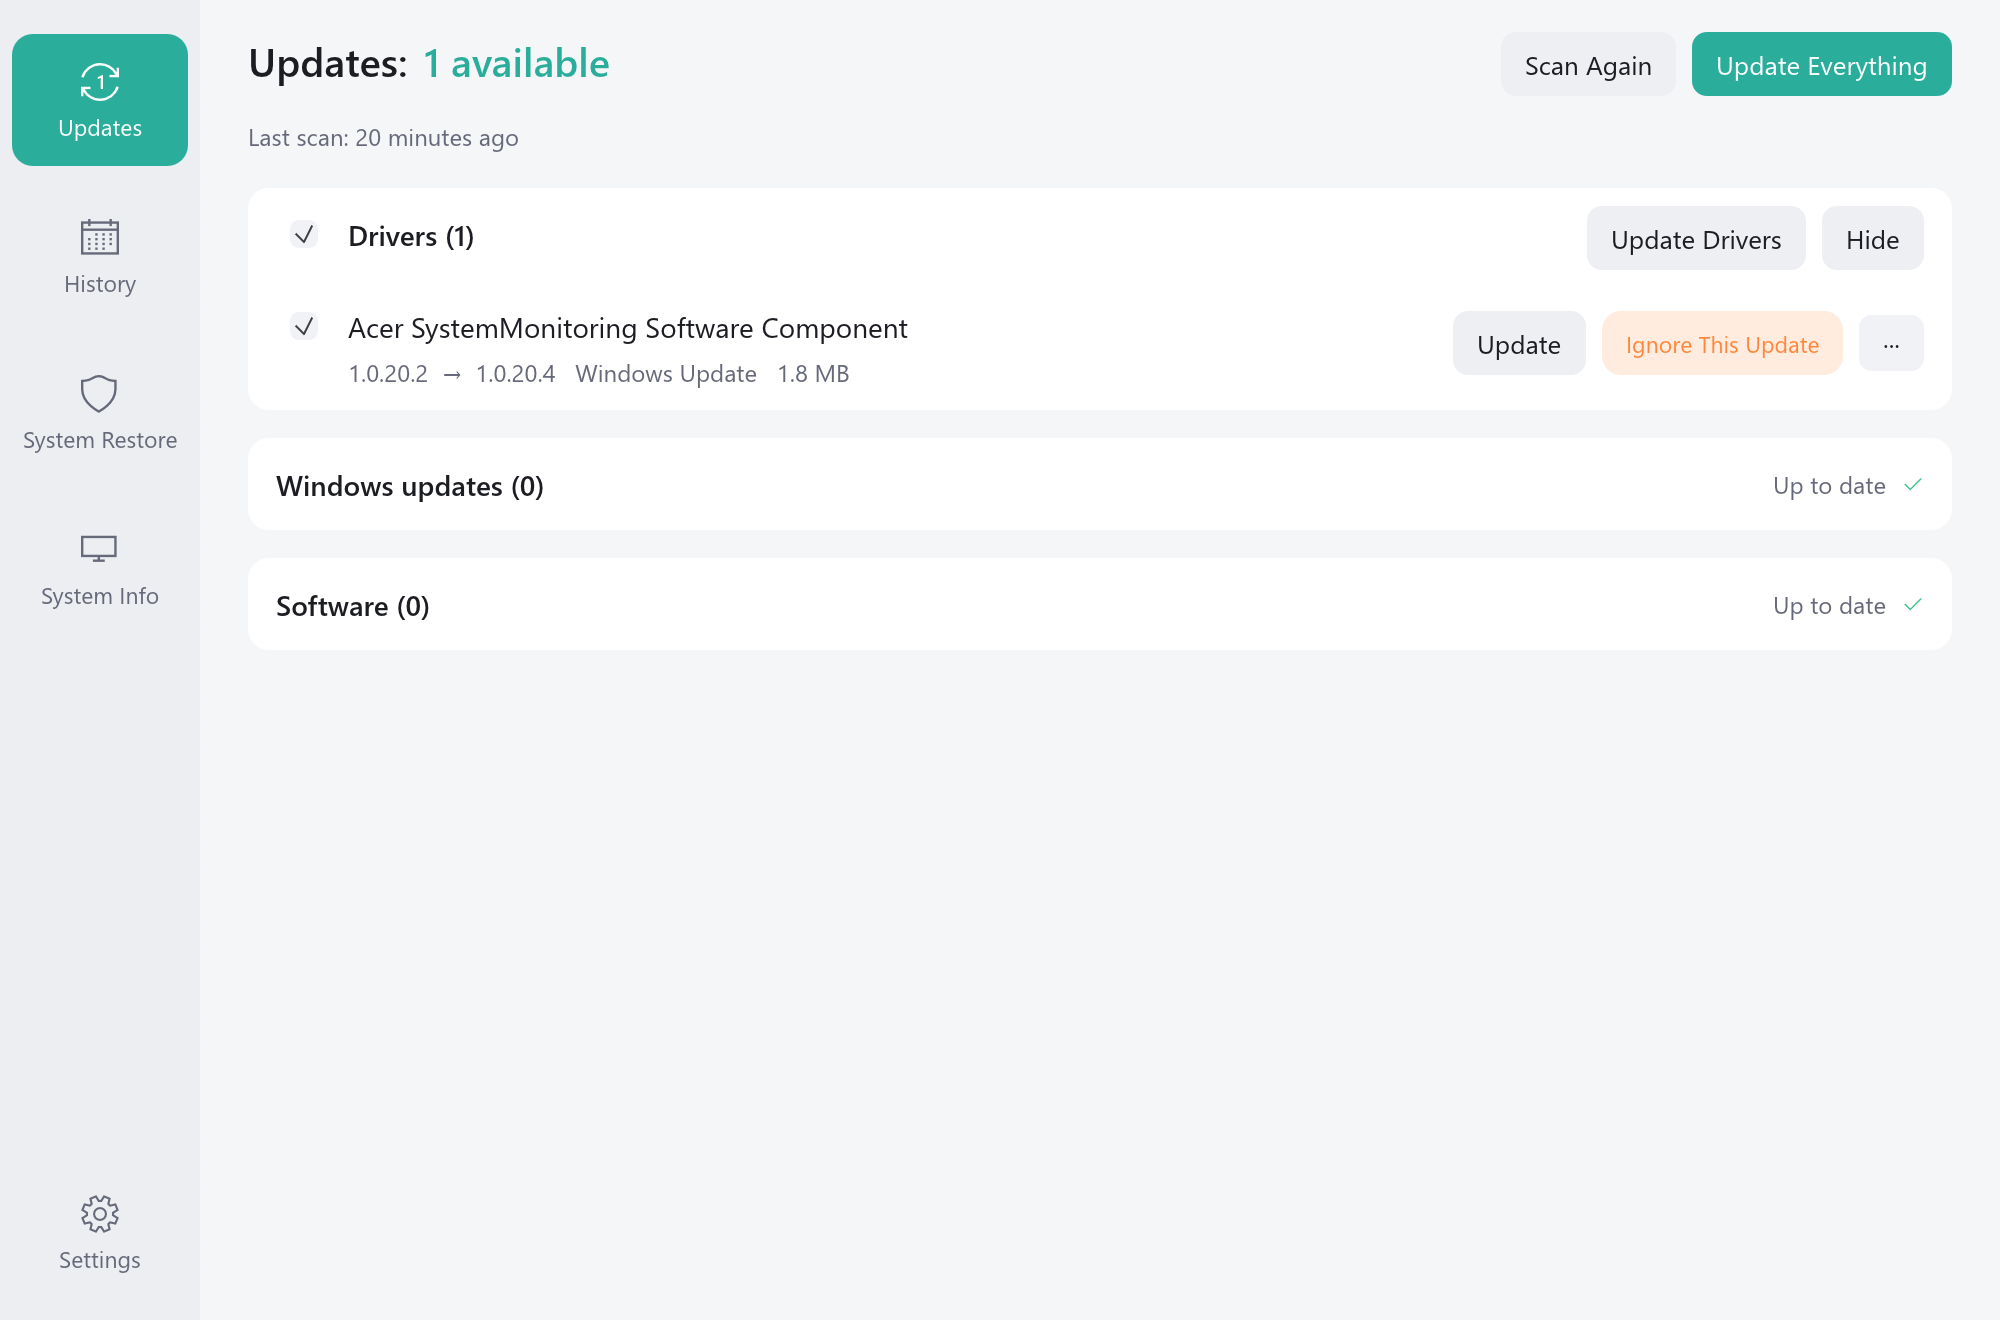
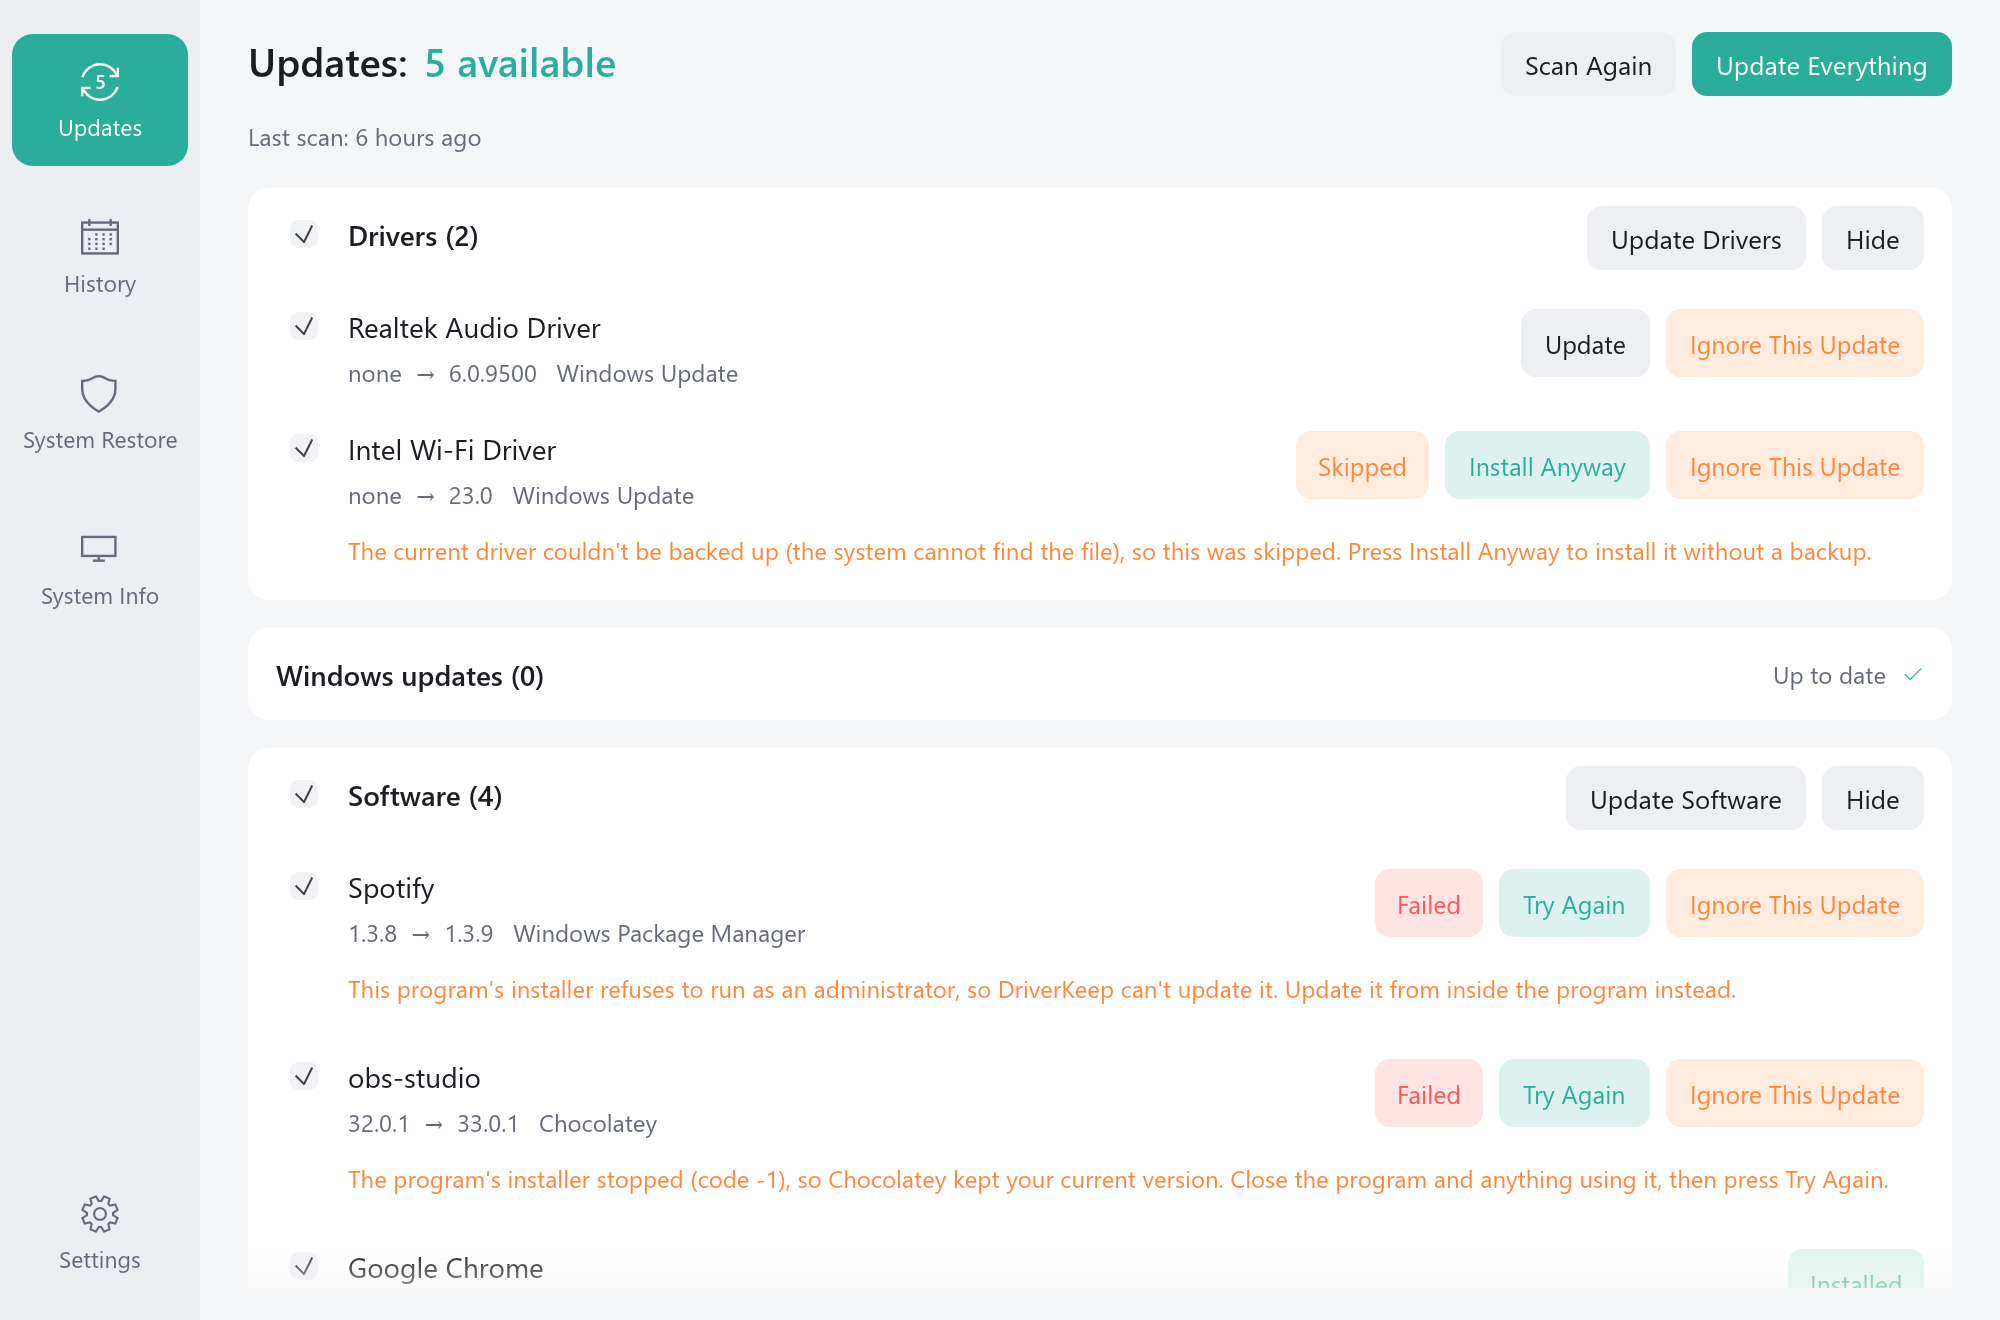
DriverKeep 1.0.28: same-height row buttons, Try Again / Install Anyway, clearer failure messages

diff --git a/src/ui/drivers_page.rs b/src/ui/drivers_page.rs
@@ -81,9 +81,10 @@ fn draw_row(ui: &mut egui::Ui, row: &mut Row, devices: &[Device], installing: bo
         ui.horizontal(|ui| {
             ui.add_enabled(!installing, egui::Checkbox::without_text(&mut row.selected));
             text_left = ui.cursor().left();
-            // The status pill ("Downloading 100%") plus the ··· menu is the widest thing on the right.
-            beside(ui, 360.0, |ui| {
+            // The status ("Downloading 100%") plus a couple of buttons is the widest thing on the right.
+            beside(ui, 400.0, |ui| {
                 ui.spacing_mut().item_spacing.y = 1.0;
+                ui.set_min_height(ROW_BUTTON_H);
                 ui.horizontal_wrapped(|ui| {
                     ui.label(RichText::new(row_name(row, &list)).size(14.0));
                     if list.len() > 1 {
@@ -96,36 +97,37 @@ fn draw_row(ui: &mut egui::Ui, row: &mut Row, devices: &[Device], installing: bo
                 ui.label(small(row_detail(row, &list)));
             });
             ui.with_layout(Layout::right_to_left(Align::Center), |ui| {
-                // The ··· menu only appears when it has something besides Ignore to offer.
-                let retry = matches!(row.state, ItemState::Failed(_) | ItemState::Skipped(_));
-                let driver = row.update.kind == Kind::Driver && can_install(row);
-                if !installing && (retry || driver) {
-                    ui.menu_button("···", |ui| {
-                        if retry && ui.button("Try again").clicked() {
-                            clicks.install = Some(vec![row.update.id.clone()]);
-                            ui.close();
-                        }
-                        if driver && ui.button("Install without a backup").clicked() {
-                            clicks.no_backup = Some(row.update.id.clone());
-                            ui.close();
-                        }
-                    });
-                }
+                // Every button and status here is as tall as the row, so they line up.
                 // Ignore isn't offered on an update that's part of the running job, or one that's
                 // installing or done. It comes back for one that failed or was skipped.
                 let failed = matches!(row.state, ItemState::Failed(_) | ItemState::Skipped(_));
                 let in_running_job = installing && in_job && !failed;
                 let can_ignore = !in_running_job
                     && !matches!(row.state, ItemState::Installing | ItemState::Installed | ItemState::NeedsRestart);
-                if can_ignore && pill_button(ui, "Ignore This Update", CAUTION) {
+                if can_ignore && row_button(ui, "Ignore This Update", CAUTION.gamma_multiply(0.16), CAUTION, true) {
                     clicks.ignore = Some(row.update.id.clone());
                 }
+                if failed && !installing {
+                    let accent = teal();
+                    // A driver skipped because its old version couldn't be saved can only go ahead
+                    // without a backup, so Install Anyway takes the place of Try Again.
+                    if row.update.kind == Kind::Driver && matches!(row.state, ItemState::Skipped(_)) {
+                        if row_button(ui, "Install Anyway", accent.gamma_multiply(0.16), accent, true) {
+                            clicks.no_backup = Some(row.update.id.clone());
+                        }
+                    } else if row_button(ui, "Try Again", accent.gamma_multiply(0.16), accent, true) {
+                        clicks.install = Some(vec![row.update.id.clone()]);
+                    }
+                }
                 match state_pill(row) {
-                    Some((text, color)) => pill(ui, &text, color),
+                    Some((text, color)) => {
+                        row_button(ui, &text, color.gamma_multiply(0.16), color, false);
+                    }
                     // While a job runs the row only offers Ignore; "Update" would just sit greyed out.
                     None if installing => {}
                     None => {
-                        if secondary(ui, "Update", true) {
+                        let ink = ui.visuals().text_color();
+                        if row_button(ui, "Update", pal().hover, ink, true) {
                             clicks.install = Some(vec![row.update.id.clone()]);
                         }
                     }

diff --git a/src/wu.rs b/src/wu.rs
@@ -479,24 +479,33 @@ fn windows_update_install(
             let downloader = session.CreateUpdateDownloader().map_err(|e| e.to_string())?;
             downloader.SetUpdates(&list).map_err(|e| e.to_string())?;
             // Started without callbacks, then asked how far along it is until it's done.
-            let job = downloader
-                .BeginDownload(none, none, &VARIANT::default())
-                .map_err(|e| format!("Download failed ({e})"))?;
             let mut asked = false;
-            while !job.IsCompleted().map(|v| v.as_bool()).unwrap_or(true) {
-                if !asked && abort() {
-                    asked = true;
-                    let _ = job.RequestAbort();
+            let ended = match downloader.BeginDownload(none, none, &VARIANT::default()) {
+                Ok(job) => {
+                    while !job.IsCompleted().map(|v| v.as_bool()).unwrap_or(true) {
+                        if !asked && abort() {
+                            asked = true;
+                            let _ = job.RequestAbort();
+                        }
+                        if let Ok(done) = job.GetProgress().and_then(|p| p.PercentComplete()) {
+                            progress(done.clamp(0, 100) as u32);
+                        }
+                        std::thread::sleep(wait);
+                    }
+                    downloader.EndDownload(&job)
                 }
-                if let Ok(done) = job.GetProgress().and_then(|p| p.PercentComplete()) {
-                    progress(done.clamp(0, 100) as u32);
-                }
-                std::thread::sleep(wait);
-            }
-            let ended = downloader.EndDownload(&job);
+                Err(e) => Err(e),
+            };
             if asked || abort() {
                 return Err(CANCELLED.to_string());
             }
+            // Some computers (work ones with Windows Update policies, for one) refuse the
+            // background download with "Invalid pointer". Downloading in one go, without
+            // progress, still works there.
+            let ended = match ended {
+                Ok(result) => Ok(result),
+                Err(_) => downloader.Download(),
+            };
             let result = ended.map_err(|e| format!("Download failed ({e})"))?;
             let code = result.ResultCode().map_err(|e| e.to_string())?;
             if code != orcSucceeded && code != orcSucceededWithErrors {
@@ -604,7 +613,7 @@ fn install(
                 if let Some(problem) = problem.filter(|_| must_have && plan.require_backup) {
                     failed += 1;
                     note(ItemState::Skipped(format!(
-                        "The current driver couldn't be backed up ({problem}), so this was skipped. Use ··· to install it anyway."
+                        "The current driver couldn't be backed up ({problem}), so this was skipped. Press Install Anyway to install it without a backup."
                     )));
                     continue;
                 }

diff --git a/src/ui.rs b/src/ui.rs
@@ -360,6 +360,43 @@ impl App {
                 app.settings.ignored_names.insert(id.to_string(), (title.to_string(), detail.to_string()));
             }
         }
+        if app.options.page.as_deref() == Some("updates-demo") {
+            // For screenshots: made-up updates in each state, so the buttons beside them can be compared.
+            let make = |id: &str, kind, source, title: &str, current: &str, version: &str, state| Row {
+                update: Update {
+                    id: id.into(),
+                    kind,
+                    source,
+                    title: title.into(),
+                    current: current.into(),
+                    version: version.into(),
+                    ..Default::default()
+                },
+                selected: true,
+                state,
+                percent: None,
+            };
+            app.rows = vec![
+                make("d1", Kind::Driver, Source::WindowsUpdate, "Realtek Audio Driver", "6.0.9", "6.0.9500", ItemState::Waiting),
+                make(
+                    "d2",
+                    Kind::Driver,
+                    Source::WindowsUpdate,
+                    "Intel Wi-Fi Driver",
+                    "22.1",
+                    "23.0",
+                    ItemState::Skipped("The current driver couldn't be backed up (the system cannot find the file), so this was skipped. Press Install Anyway to install it without a backup.".into()),
+                ),
+                make("s1", Kind::Software, Source::Winget, "Spotify", "1.3.8", "1.3.9", ItemState::Failed("This program's installer refuses to run as an administrator, so DriverKeep can't update it. Update it from inside the program instead.".into())),
+                make("s2", Kind::Software, Source::Chocolatey, "obs-studio", "32.0.1", "33.0.1", ItemState::Failed("The program's installer stopped (code -1), so Chocolatey kept your current version. Close the program and anything using it, then press Try Again.".into())),
+                make("s3", Kind::Software, Source::Winget, "Google Chrome", "157.0.51", "157.0.79", ItemState::Installed),
+                make("s4", Kind::Software, Source::Winget, "Notepad++", "8.9.9", "8.9.9.1", ItemState::Waiting),
+            ];
+            // Kept in the list a later rebuild starts from, so the saved scan doesn't replace them.
+            app.raw = app.rows.iter().map(|r| r.update.clone()).collect();
+            app.searched = true;
+            app.updates_ready = true;
+        }
         if app.options.page.as_deref() == Some("restore-demo") {
             // For screenshots: made-up restore points, since the real ones need administrator rights.
             let info = App::sample_restore();

diff --git a/src/software.rs b/src/software.rs
@@ -240,8 +240,33 @@ fn windows_package_manager() -> Result<Vec<Update>, String> {
 /// means the program, or something using its files, was open.
 fn chocolatey_failure(code: i32) -> String {
     format!(
-        "The program's installer stopped (code {code}), so Chocolatey kept your current version. Close the program and anything using it, then use ··· to try again."
+        "The program's installer stopped (code {code}), so Chocolatey kept your current version. Close the program and anything using it, then press Try Again."
     )
+}
+
+/// Says in plain words why winget gave up. The common ones are spelled out; for the rest it asks
+/// winget itself, which can describe its own error numbers.
+fn winget_failure(code: u32) -> String {
+    match code {
+        0x8A15_0056 => "This program's installer refuses to run as an administrator, so DriverKeep can't update it. \
+                        Update it from inside the program instead."
+            .into(),
+        0x8A15_0006 => "Windows couldn't start this program's installer. A security rule on this computer, \
+                        such as AppLocker or antivirus, may be blocking it."
+            .into(),
+        0x8A15_008E => "A newer version exists, but it installs a different way from the copy on this computer, \
+                        so the Windows Package Manager won't upgrade it. Uninstall the program and install it again."
+            .into(),
+        other => {
+            let described = system::run_quiet(&tool_path("winget"), &["error", "--input", &format!("0x{other:08X}")])
+                .ok()
+                .and_then(|(_, text)| text.lines().map(str::trim).filter(|l| !l.is_empty()).nth(1).map(str::to_string));
+            match described {
+                Some(why) => format!("The update didn't finish: {why} (error 0x{other:08X})."),
+                None => format!("The update didn't finish (error 0x{other:08X})."),
+            }
+        }
+    }
 }
 
 /// Updates one program. Gives back true when a restart is needed to finish.
@@ -282,7 +307,7 @@ pub fn upgrade(update: &Update) -> Result<bool, String> {
     match code as u32 {
         0 => Ok(false),
         REBOOT_TO_FINISH => Ok(true),
-        other => Err(format!("The update didn't finish (error 0x{other:08X}).")),
+        other => Err(winget_failure(other)),
     }
 }
 

diff --git a/src/ui/look.rs b/src/ui/look.rs
@@ -399,13 +399,22 @@ pub fn cancel_button(ui: &mut egui::Ui, text: &str, enabled: bool) -> bool {
     ui.add_enabled(enabled, button).clicked()
 }
 
-/// A clickable pill, shaped like the status pills.
-pub fn pill_button(ui: &mut egui::Ui, text: &str, color: Color32) -> bool {
-    let button = egui::Button::new(RichText::new(text).size(11.5).color(color))
-        .fill(color.gamma_multiply(0.16))
+/// The height of an update's name-and-details block, and of every button or status beside it.
+pub const ROW_BUTTON_H: f32 = 34.0;
+
+/// A button or status at the right of an update row. They all share one height, which matches the
+/// row. `fill` is the background and `ink` the text; a status (`clickable` false) doesn't react.
+pub fn row_button(ui: &mut egui::Ui, text: &str, fill: Color32, ink: Color32, clickable: bool) -> bool {
+    let mut button = egui::Button::new(RichText::new(text).size(12.5).color(ink))
+        .fill(fill)
         .stroke(egui::Stroke::NONE)
-        .corner_radius(CornerRadius::same(9))
-        .min_size(Vec2::new(0.0, 32.0));
+        .corner_radius(CornerRadius::same(7))
+        .min_size(Vec2::new(0.0, ROW_BUTTON_H));
+    if !clickable {
+        button = button.sense(Sense::hover());
+        ui.add(button);
+        return false;
+    }
     ui.add(button).on_hover_cursor(egui::CursorIcon::PointingHand).clicked()
 }
 

diff --git a/src/ui/restore_page.rs b/src/ui/restore_page.rs
@@ -207,7 +207,7 @@ impl App {
                     .map(|t| t.with_timezone(&chrono::Local).format("%B %-d, %Y  %-I:%M %p").to_string())
                     .unwrap_or_default();
                 // Deleting can't be undone, so the first press only asks.
-                let armed_id = ui.id().with(("delete-restore-point", point.number));
+                let armed_id = ui.make_persistent_id(("delete-restore-point", point.number));
                 let armed = ui.data(|d| d.get_temp::<bool>(armed_id)).unwrap_or(false);
                 ui.horizontal(|ui| {
                     ui.vertical(|ui| {
